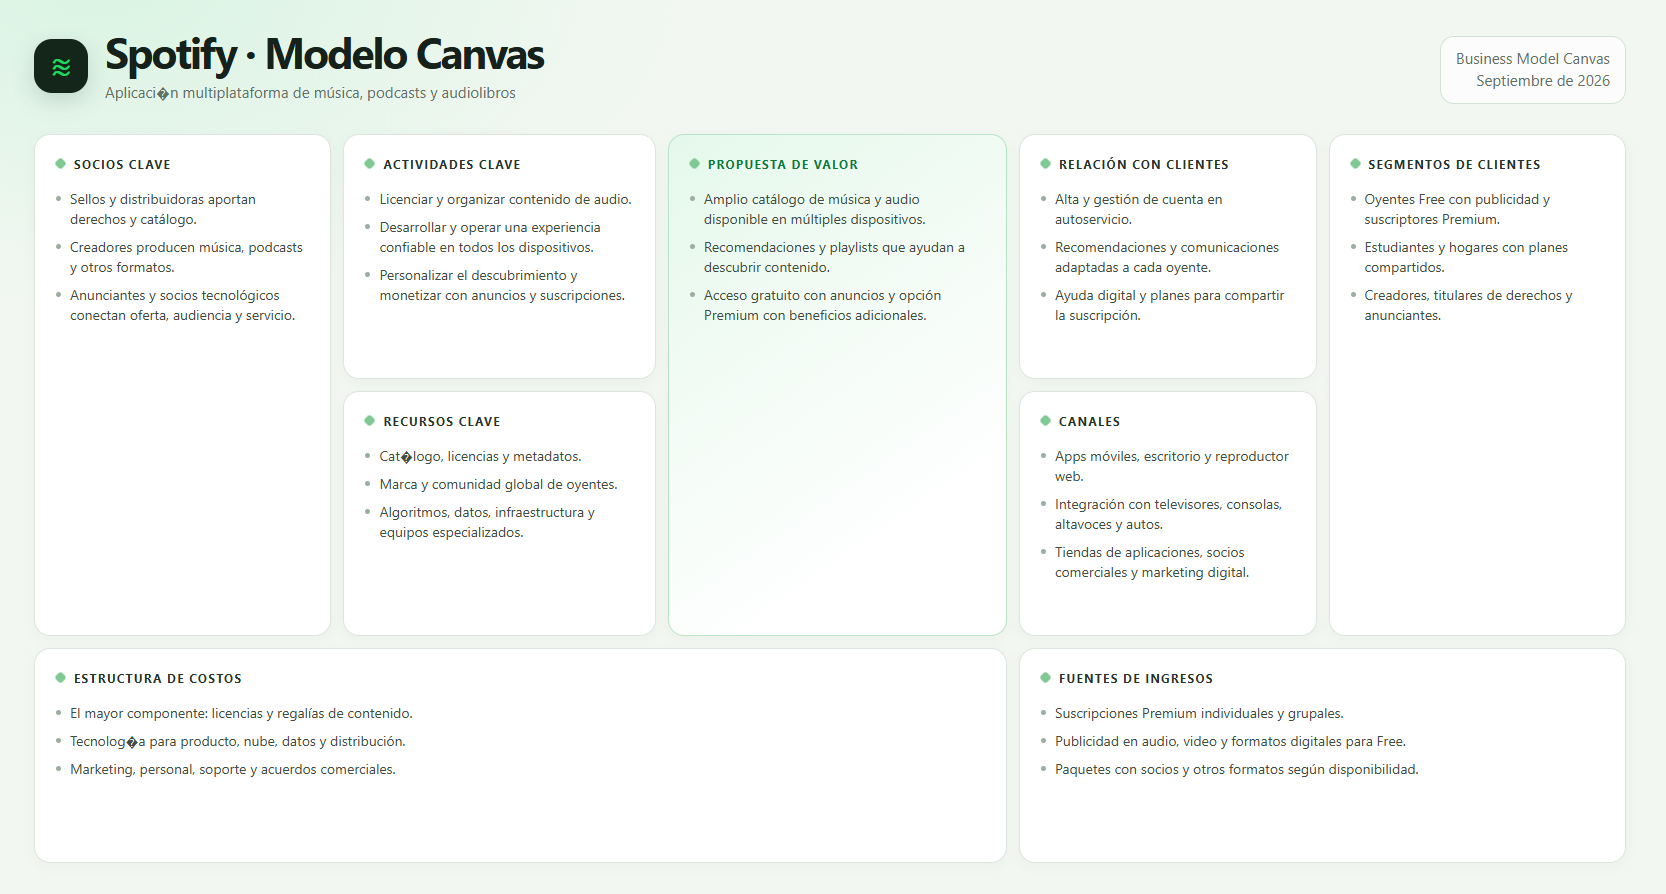
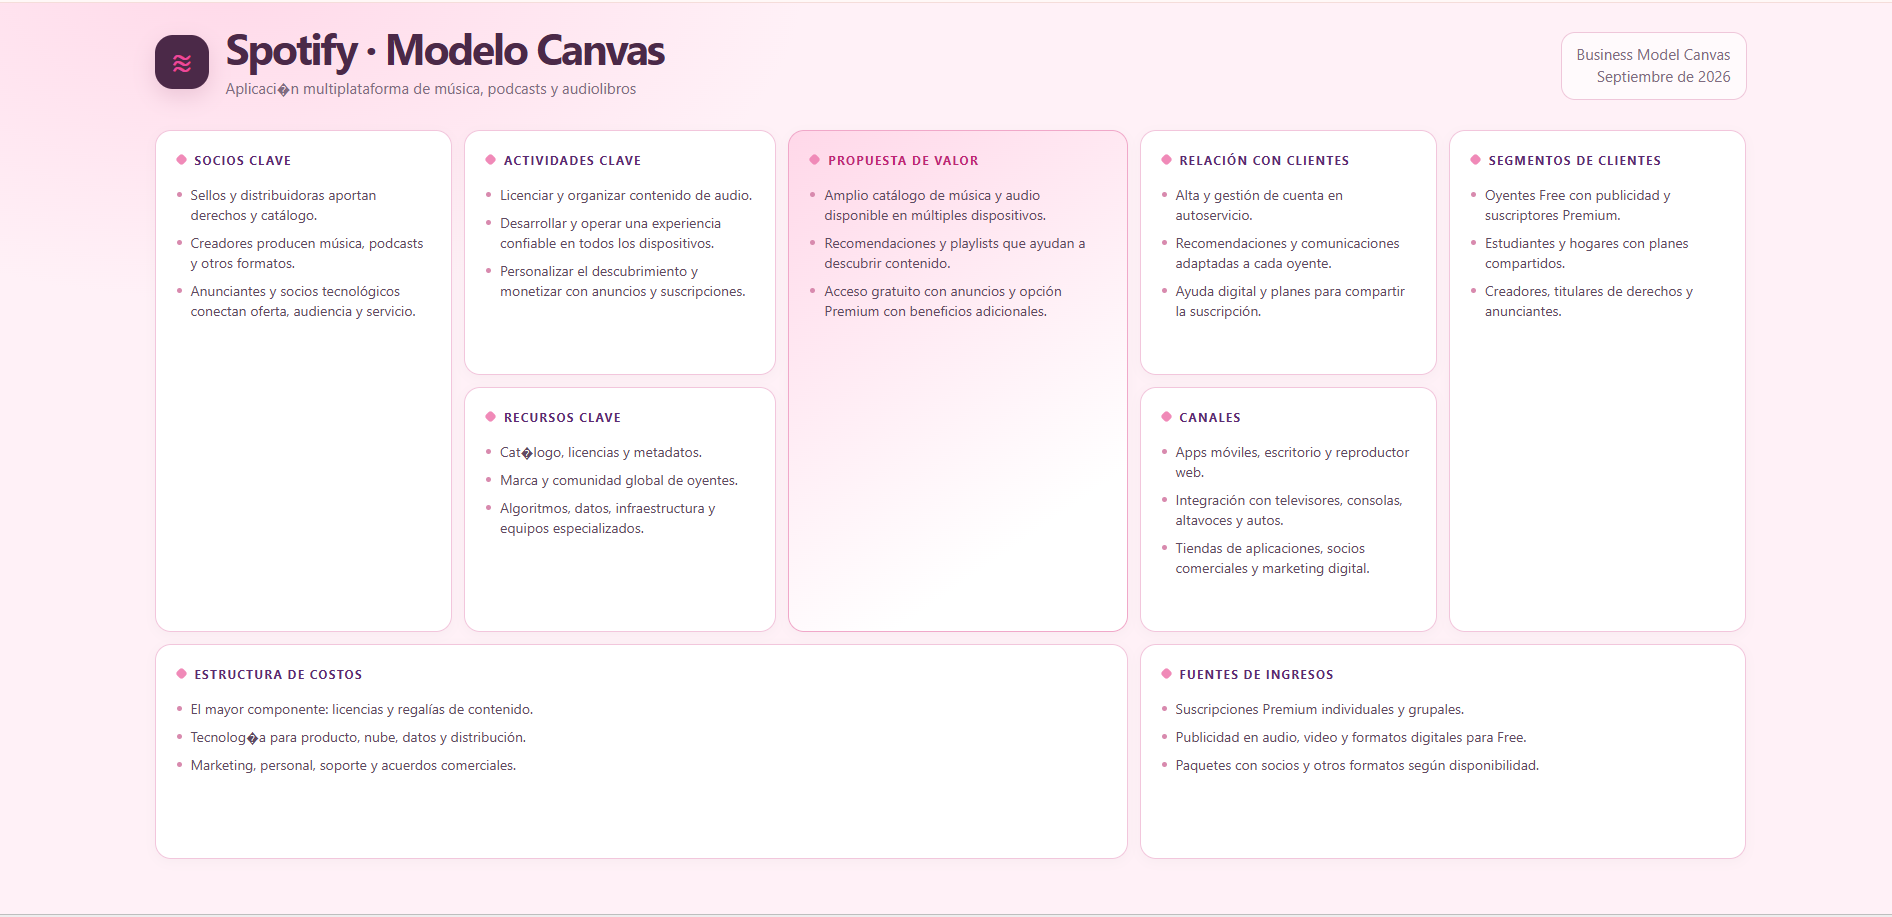
Finalizacion de Practica3

diff --git a/Practica03/README.md b/Practica03/README.md
@@ -1,13 +1,112 @@
-# Spotify | Modelo Canvas
+#           🌸 Spotify | Modelo Canvas 🎧
 
-[Modelo Canvas](https://diegomiguel04.github.io/Practicas-INTEGRADORA/Practica03/index.html)
+<p align="center">
+  💗✨ <strong>Modelo de Negocio de Spotify</strong> ✨💗
+</p>
 
-<img src="spotify-model-canvas.png">
+<p align="center">
+  Representación visual mediante el Business Model Canvas
+</p>
 
-Este proyecto presenta una síntesis visual del modelo de negocio de Spotify con el marco Business Model Canvas. La cuadrícula reúne sus nueve componentes: socios, actividades y recursos clave; propuesta de valor; relaciones y canales; segmentos de clientes; estructura de costos y fuentes de ingresos.
+---
 
-Cada tarjeta muestra los puntos principales para facilitar una lectura rápida. Al pasar el cursor o enfocar una tarjeta con el teclado, aparece una capa con información ampliada que se superpone al tablero sin mover las demás secciones. En pantallas táctiles y al imprimir, el detalle se muestra directamente.
+## 💕 Modelo Canvas
 
-## Uso
+🔗 **[✨ Ver Modelo Canvas de Spotify ✨](https://jenniferbautistabarrios.github.io/Practicas-Integradora/Practica03/index.html)**
 
-Abre `index.html` en un navegador. El diseño se adapta a pantallas de escritorio, tabletas y móviles; no requiere dependencias ni instalación.
+<p align="center">
+  <img src="spotify-model-canvas.png" alt="Spotify Modelo Canvas" width="900">
+</p>
+
+---
+
+## 🌷 Descripción
+
+Este proyecto presenta una representación visual del **modelo de negocio de Spotify** utilizando el marco de trabajo **Business Model Canvas**.
+
+El objetivo es organizar de manera clara los principales elementos que forman parte del modelo de negocio de la plataforma, permitiendo identificar cómo se relacionan sus diferentes componentes.
+
+La información se presenta mediante una cuadrícula dividida en **nueve bloques principales**, facilitando la lectura y consulta de cada apartado.
+
+---
+
+## 🎀 Componentes del Canvas
+
+El modelo está compuesto por los siguientes elementos:
+
+### 🌸 Socios clave
+
+Representa a los principales socios que participan en el funcionamiento de Spotify, incluyendo distribuidores, creadores, anunciantes y socios tecnológicos.
+
+### 🎵 Actividades clave
+
+Incluye las actividades necesarias para mantener el funcionamiento de la plataforma, como la gestión del contenido, el desarrollo del servicio y la personalización de la experiencia.
+
+### 💎 Recursos clave
+
+Reúne los recursos utilizados por Spotify para ofrecer su servicio, como el catálogo, las licencias, la tecnología, los datos y la infraestructura.
+
+### 💗 Propuesta de valor
+
+Presenta los principales beneficios que Spotify ofrece a sus usuarios, como el acceso a contenido de audio, recomendaciones personalizadas, playlists y diferentes opciones de acceso al servicio.
+
+### 🤝 Relación con clientes
+
+Representa la manera en que Spotify mantiene la relación con sus usuarios mediante la gestión de cuentas, recomendaciones, comunicación, soporte y opciones de suscripción.
+
+### 📱 Canales
+
+Muestra los diferentes medios mediante los cuales los usuarios pueden acceder a la plataforma, como aplicaciones móviles, escritorio, reproductor web y otros dispositivos compatibles.
+
+### 👥 Segmentos de clientes
+
+Identifica los principales grupos que utilizan o participan en la plataforma, incluyendo usuarios gratuitos, suscriptores Premium, estudiantes, hogares, creadores, titulares de derechos y anunciantes.
+
+### 💰 Estructura de costos
+
+Representa los principales costos relacionados con el funcionamiento de Spotify, incluyendo licencias, infraestructura tecnológica, desarrollo, marketing y operaciones.
+
+### 💵 Fuentes de ingresos
+
+Presenta las principales formas mediante las cuales Spotify obtiene ingresos, principalmente mediante suscripciones Premium y publicidad.
+
+---
+
+## 💕 Características del proyecto
+
+El Modelo Canvas cuenta con una interfaz diseñada para facilitar la visualización de la información.
+
+Entre sus principales características se encuentran:
+
+- 🌸 **Diseño visual:** los nueve componentes están organizados mediante tarjetas.
+- 🖱 **Interacción:** al pasar el cursor sobre una tarjeta se puede visualizar información ampliada.
+- ⌨ **Accesibilidad:** las tarjetas pueden enfocarse mediante el teclado.
+- 📱 **Diseño adaptable:** la interfaz se ajusta a computadoras, tabletas y dispositivos móviles.
+- 🖨 **Impresión:** el contenido puede visualizarse correctamente al imprimir.
+- 💗 **Interfaz organizada:** cada sección permite identificar rápidamente su contenido.
+
+---
+
+## 🛠 Tecnologías utilizadas
+
+Para desarrollar esta práctica se utilizaron tecnologías web básicas:
+
+| Tecnología | Función |
+|---|---|
+| 🌐 **HTML5** | Estructura y contenido de la página |
+| 🎨 **CSS3** | Diseño visual, colores y efectos |
+| 📱 **Responsive Design** | Adaptación a diferentes dispositivos |
+| 🚀 **GitHub Pages** | Publicación del proyecto |
+
+El proyecto no requiere librerías externas ni instalaciones adicionales para poder visualizarse.
+
+---
+
+## 📂 Estructura del proyecto
+
+```text
+Practica03/
+│
+├── 📄 index.html
+├── 🖼 spotify-model-canvas.png
+└── 📄 README.md
